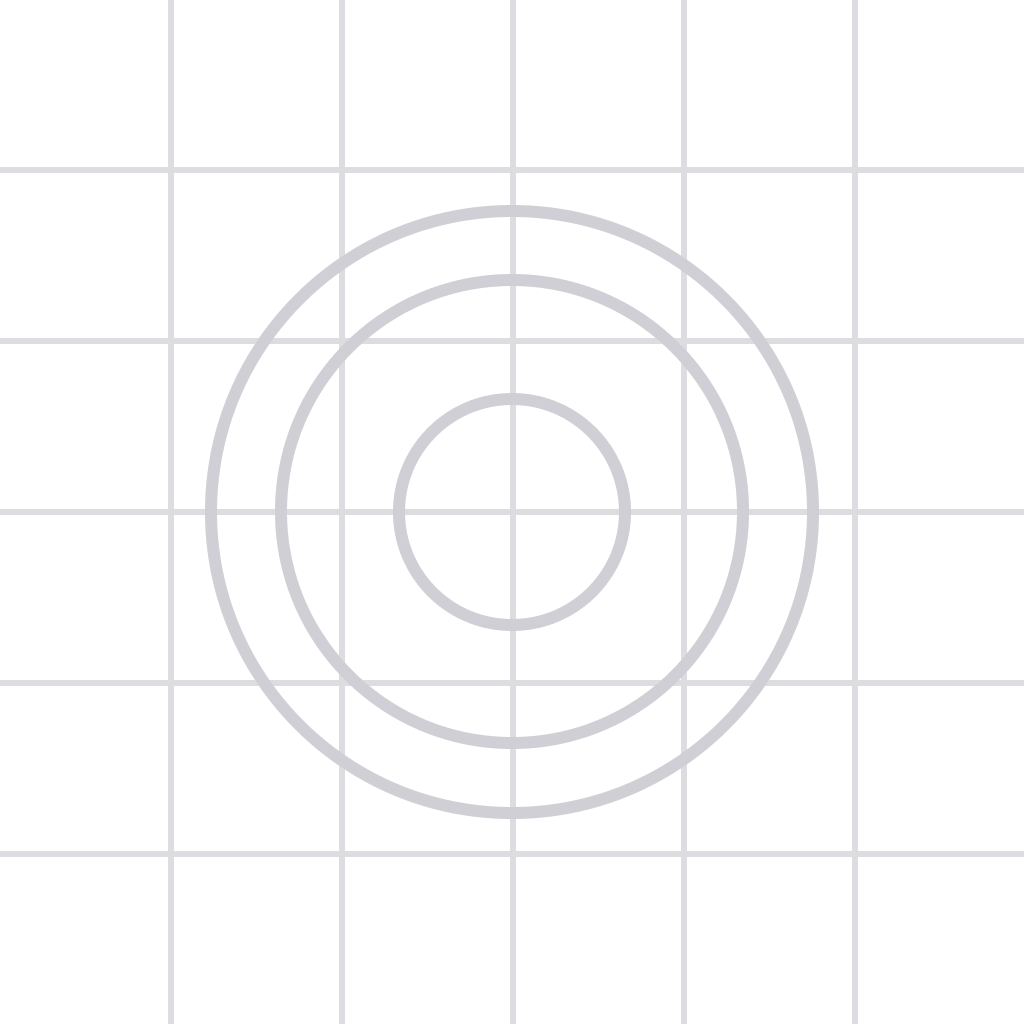
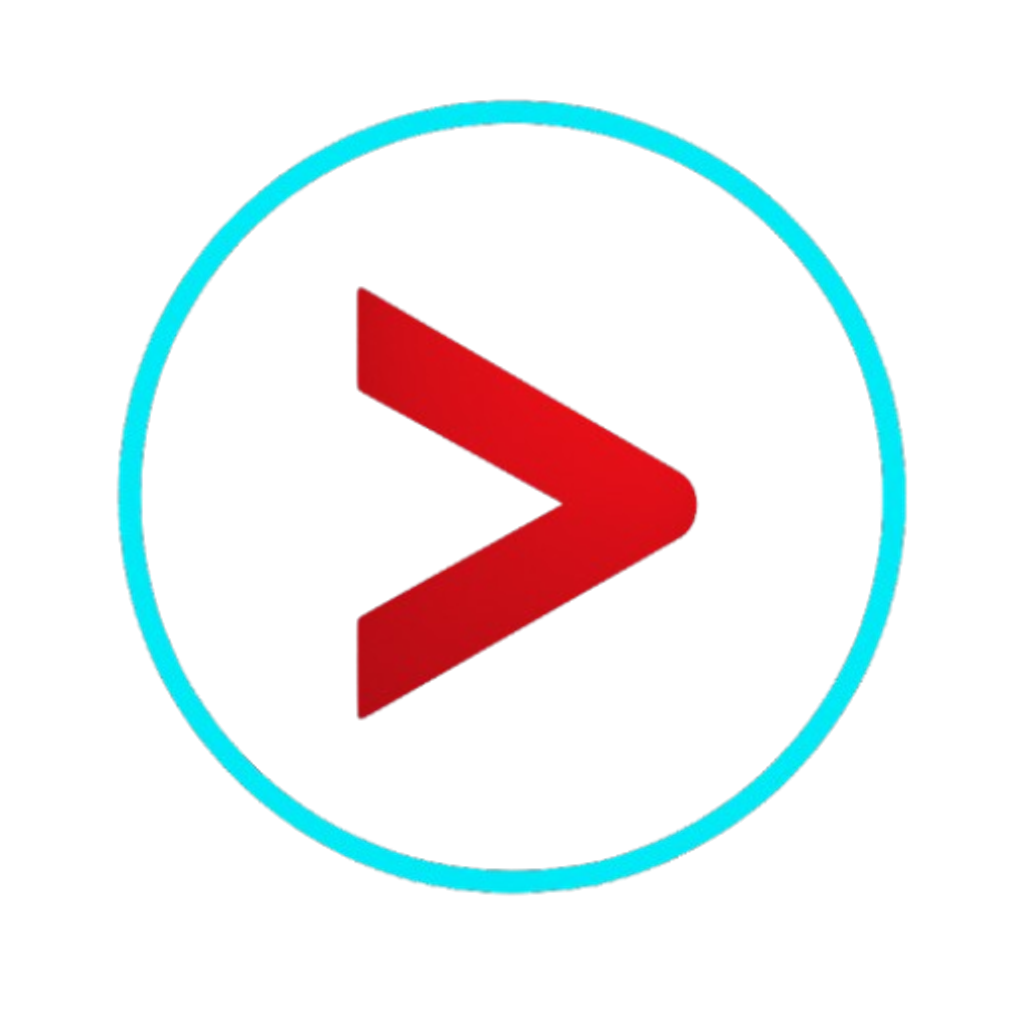
chore(release): v1.8.23

Changed region(s): [[0.0, 0.0, 1.0, 1.0]]

diff --git a/apps/mobile-app/config/version.ts b/apps/mobile-app/config/version.ts
@@ -22,22 +22,39 @@ export interface VersionHistory {
 // Current Version Configuration - Auto-synced with package.json
 export const CURRENT_VERSION: VersionInfo = {
   version: packageJson.version, // Single source of truth: package.json
-  buildNumber: 202606181559, // Updated to current timestamp
+  buildNumber: 202606181630, // Updated to current timestamp
   releaseDate: '2026-06-18',
   releaseType: 'stable',
   environment: process.env.NODE_ENV === 'production' ? 'production' : 'development',
   features: [],
   bugfixes: [
-    'Guarded browser-only hostname and origin access in mobile auth and SSO startup paths so Android can launch without window crashes',
-    'Hardened mobile Supabase profile hostname resolution when window.location is absent',
-    'Added LICENSE NOTICE and TRADEMARKS.md files for the release'
+    'Replaced the default Expo launcher icon with the HashPass brand mark',
+    'Renamed the installed app and web install surfaces to HASHPASS',
+    'Aligned Android adaptive icon and PWA install metadata with the HashPass brand'
   ],
   breakingChanges: [],
-  notes: 'Version 1.8.22 release'
+  notes: 'Android launcher branding refresh: HASHPASS name and icon'
 };
 
 // Version History
 export const VERSION_HISTORY: VersionHistory = {
+  '1.8.23': {
+    version: '1.8.23',
+    buildNumber: 202606181630,
+    releaseDate: '2026-06-18',
+    releaseType: 'stable',
+    environment: 'development',
+    features: [
+      // No new features
+    ],
+    bugfixes: [
+      'Replaced the default Expo launcher icon with the HashPass brand mark',
+      'Renamed the installed app and web install surfaces to HASHPASS',
+      'Aligned Android adaptive icon and PWA install metadata with the HashPass brand'
+    ],
+    breakingChanges: [],
+    notes: 'Android launcher branding refresh: HASHPASS name and icon'
+  },
   '1.8.22': {
     version: '1.8.22',
     buildNumber: 202606181559,

diff --git a/apps/mobile-app/app/+html.tsx b/apps/mobile-app/app/+html.tsx
@@ -81,7 +81,7 @@ export default function Root({
       {
         '@type': 'Organization',
         '@id': `${SITE_URL}/#organization`,
-        name: 'HashPass',
+        name: 'HASHPASS',
         url: SITE_URL,
         logo: `${SITE_URL}/assets/pwa-icon-512.png`,
       },
@@ -89,7 +89,7 @@ export default function Root({
         '@type': 'WebSite',
         '@id': `${SITE_URL}/#website`,
         url: SITE_URL,
-        name: 'HashPass',
+        name: 'HASHPASS',
         description,
         publisher: {
           '@id': `${SITE_URL}/#organization`,
@@ -99,7 +99,7 @@ export default function Root({
       {
         '@type': 'WebApplication',
         '@id': `${SITE_URL}/#webapp`,
-        name: 'HashPass',
+        name: 'HASHPASS',
         url: SITE_URL,
         description,
         applicationCategory: 'BusinessApplication',
@@ -128,9 +128,9 @@ export default function Root({
         />
         <meta name="description" content={description} />
         <meta name="keywords" content={keywords} />
-        <meta name="author" content={metadata?.author || 'HashPass'} />
-        <meta name="publisher" content="HashPass" />
-        <meta name="application-name" content="HashPass" />
+        <meta name="author" content={metadata?.author || 'HASHPASS'} />
+        <meta name="publisher" content="HASHPASS" />
+        <meta name="application-name" content="HASHPASS" />
         <meta name="robots" content={robots} />
         <meta name="googlebot" content={robots} />
         <meta name="referrer" content="strict-origin-when-cross-origin" />
@@ -139,12 +139,12 @@ export default function Root({
         <meta name="theme-color" content="#05070C" />
         <meta name="mobile-web-app-capable" content="yes" />
         <meta name="apple-mobile-web-app-capable" content="yes" />
-        <meta name="apple-mobile-web-app-title" content="HashPass" />
+        <meta name="apple-mobile-web-app-title" content="HASHPASS" />
         <meta name="apple-mobile-web-app-status-bar-style" content="black-translucent" />
         <meta name="msapplication-TileColor" content="#05070C" />
         <meta name="msapplication-TileImage" content="/assets/mstile-150x150.png" />
         {canonicalUrl ? <link rel="canonical" href={canonicalUrl} /> : null}
-        <meta property="og:site_name" content="HashPass" />
+        <meta property="og:site_name" content="HASHPASS" />
         <meta property="og:locale" content="en_US" />
         <meta property="og:title" content={title} />
         <meta property="og:description" content={description} />

diff --git a/apps/mobile-app/public/sw.js b/apps/mobile-app/public/sw.js
@@ -1,4 +1,4 @@
-const APP_VERSION = '1.8.22';
+const APP_VERSION = '1.8.23';
 const STATIC_CACHE = `hashpass-static-v${APP_VERSION}`;
 const PAGE_CACHE = `hashpass-pages-v${APP_VERSION}`;
 const OFFLINE_URL = '/offline.html';

diff --git a/CHANGELOG.md b/CHANGELOG.md
@@ -9,6 +9,18 @@
 
 
 
+## [1.8.23] - 2026-06-18
+
+### Released
+- Android launcher branding refresh: HASHPASS name and icon
+
+### Technical Details
+- Version: 1.8.23
+- Release Type: stable
+- Build Number: 202606181630
+- Release Date: 2026-06-18T16:30:35.043Z
+
+
 ## [1.8.21](https://github.com/hashpass-tech/hashpass.tech/compare/v1.8.20...v1.8.21) (2026-06-18)
 
 

diff --git a/README.md b/README.md
@@ -17,11 +17,16 @@
   HashPass is the active monorepo for the mobile product, the new <code>hashpass.club</code> web app, shared UI, docs, and deployment tooling.
 </p>
 
-## 📋 Latest Changes (v1.8.22)
+## 📋 Latest Changes (v1.8.23)
 
-### Bug Fixes
+### Released
+- Android launcher branding refresh: HASHPASS name and icon
 
-* native landing page — transparent logos, scroll crash, FlipCard 3D, card layout ([140cb74](https://github.com/hashpass-tech/hashpass.tech/commit/140cb7404322422d54eed4a7a6cb1bd3f9fbc5c4))
+### Technical Details
+- Version: 1.8.23
+- Release Type: stable
+- Build Number: 202606181630
+- Release Date: 2026-06-18T16:30:35.043Z
 
 For full version history, see [CHANGELOG.md](./CHANGELOG.md) and [GitHub releases](https://github.com/edcalderon/my-second-brain/releases)
 